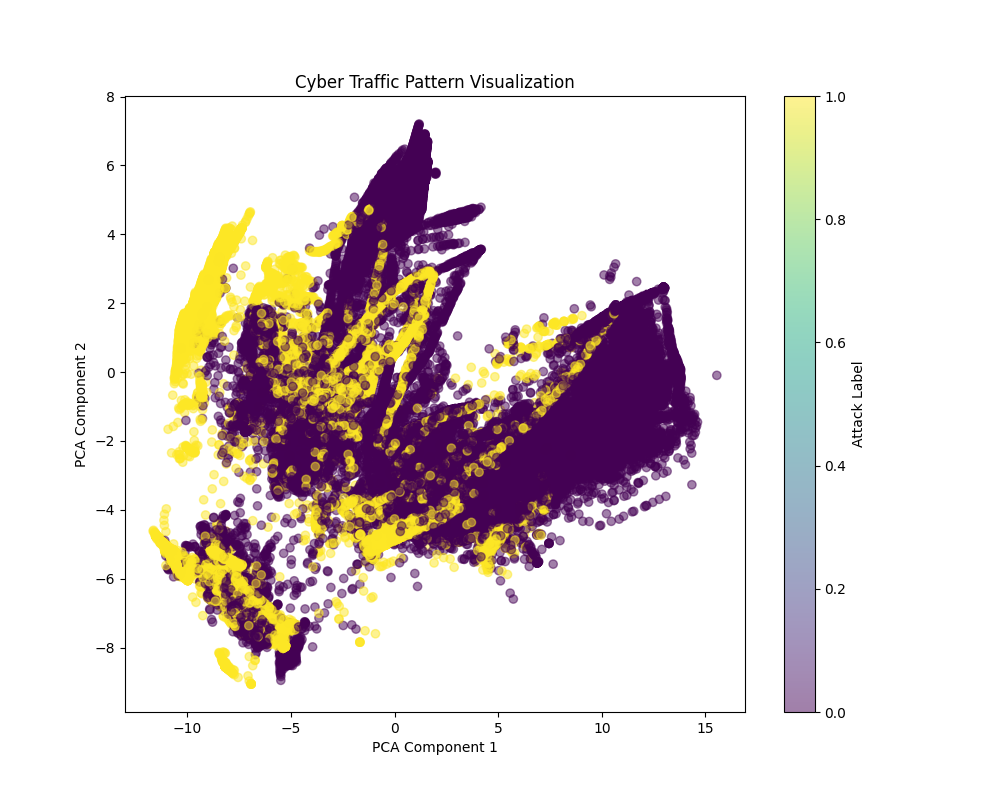
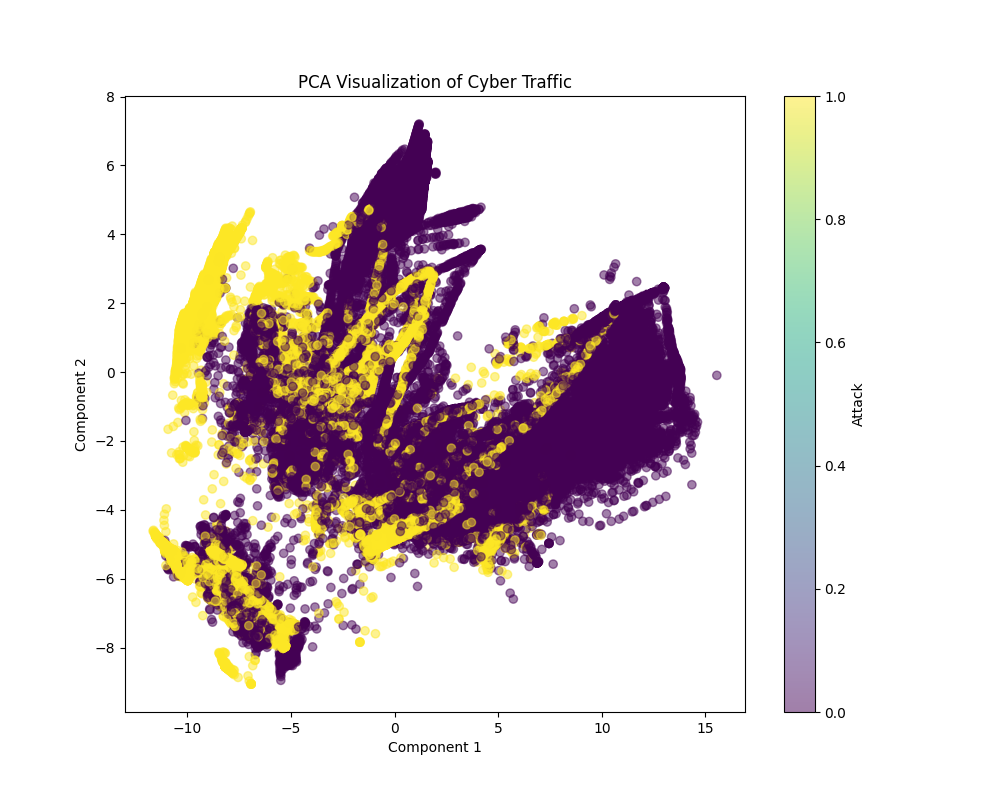
Added PCA and t-SNE visualization for learned traffic embeddings

diff --git a/src/visualize_embeddings.py b/src/visualize_embeddings.py
@@ -1,0 +1,93 @@
+import torch
+import pandas as pd
+import matplotlib.pyplot as plt
+
+from sklearn.decomposition import PCA
+from sklearn.manifold import TSNE
+
+from model import AutoEncoder
+
+device = torch.device("cuda" if torch.cuda.is_available() else "cpu")
+
+print("Using Device:", device)
+
+
+df = pd.read_csv("../data/processed_data.csv")
+
+X = df.iloc[:, :-1].values
+y = df.iloc[:, -1].values
+
+X = torch.tensor(X, dtype=torch.float32).to(device)
+
+
+model = AutoEncoder(41).to(device)
+
+model.load_state_dict(torch.load("../models/autoencoder.pth", map_location=device))
+
+model.eval()
+
+print("Model Loaded")
+
+
+with torch.no_grad():
+    latent_vectors = model.get_latent_features(X)
+
+latent_vectors = latent_vectors.cpu().numpy()
+
+print("Latent Vector Shape:", latent_vectors.shape)
+
+
+print("\nRunning PCA...")
+
+pca = PCA(n_components=2)
+
+pca_result = pca.fit_transform(latent_vectors)
+
+plt.figure(figsize=(10, 8))
+
+plt.scatter(pca_result[:, 0], pca_result[:, 1], c=y, alpha=0.5)
+
+plt.title("PCA Visualization of Cyber Traffic")
+
+plt.xlabel("Component 1")
+plt.ylabel("Component 2")
+
+plt.colorbar(label="Attack")
+
+plt.savefig("../outputs/pca_visualization.png")
+
+print("PCA image saved.")
+
+plt.close()
+
+
+print("\nRunning t-SNE...")
+
+# Use subset because t-SNE is slow
+sample_size = min(5000, len(latent_vectors))
+
+latent_subset = latent_vectors[:sample_size]
+label_subset = y[:sample_size]
+
+tsne = TSNE(n_components=2, random_state=42, perplexity=30)
+
+tsne_result = tsne.fit_transform(latent_subset)
+
+plt.figure(figsize=(10, 8))
+
+plt.scatter(tsne_result[:, 0], tsne_result[:, 1], c=label_subset, alpha=0.5)
+
+plt.title("t-SNE Visualization of Cyber Traffic")
+
+plt.xlabel("Dimension 1")
+plt.ylabel("Dimension 2")
+
+plt.colorbar(label="Attack")
+
+plt.savefig("../outputs/tsne_visualization.png")
+
+print("t-SNE image saved.")
+
+plt.close()
+
+print("\nVisualization Complete!")
